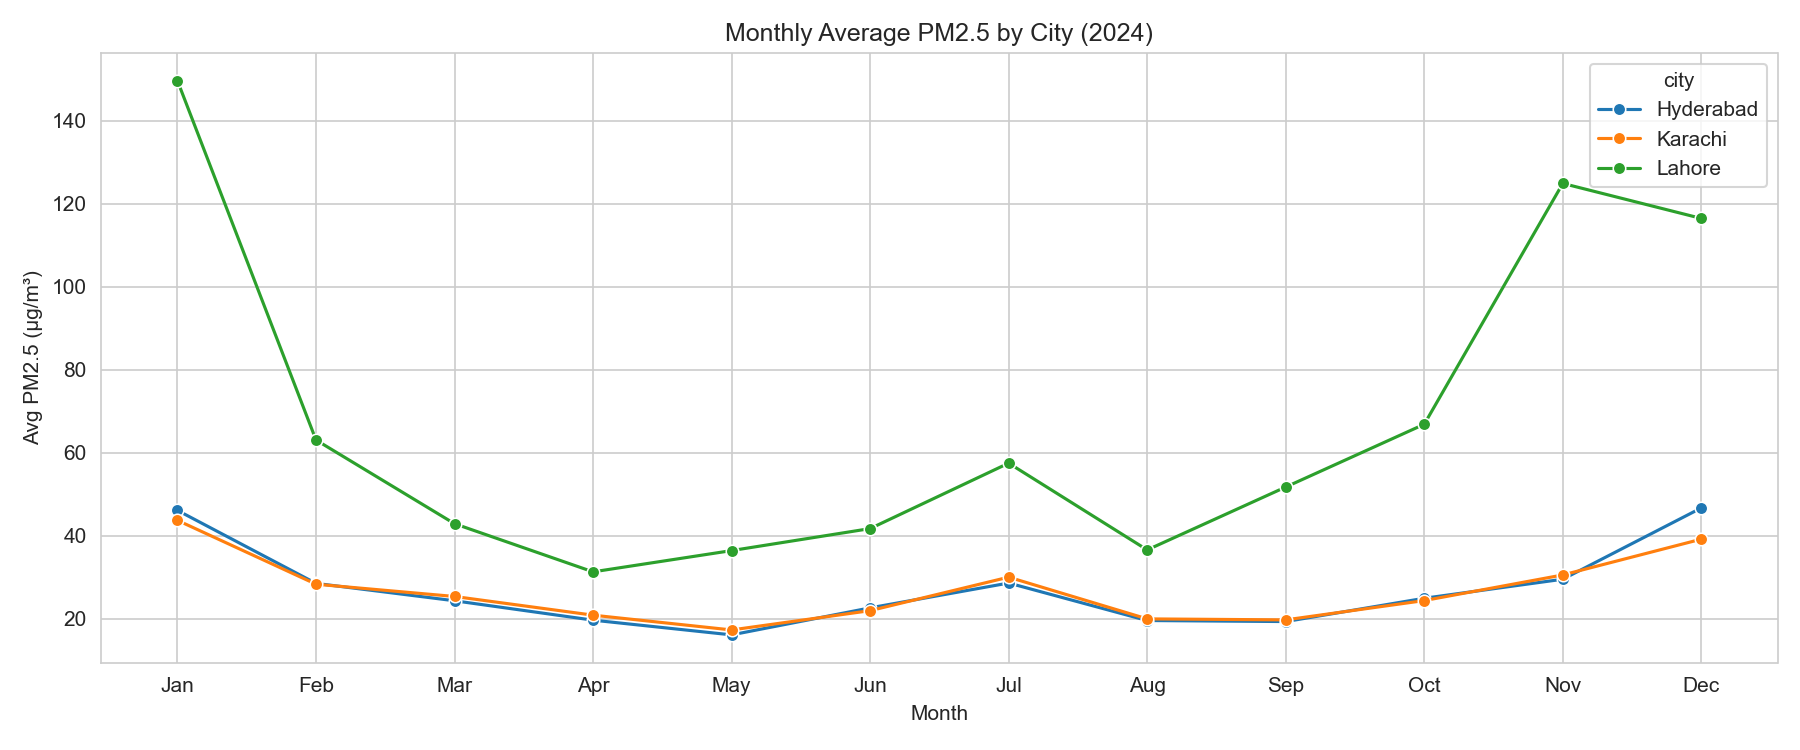
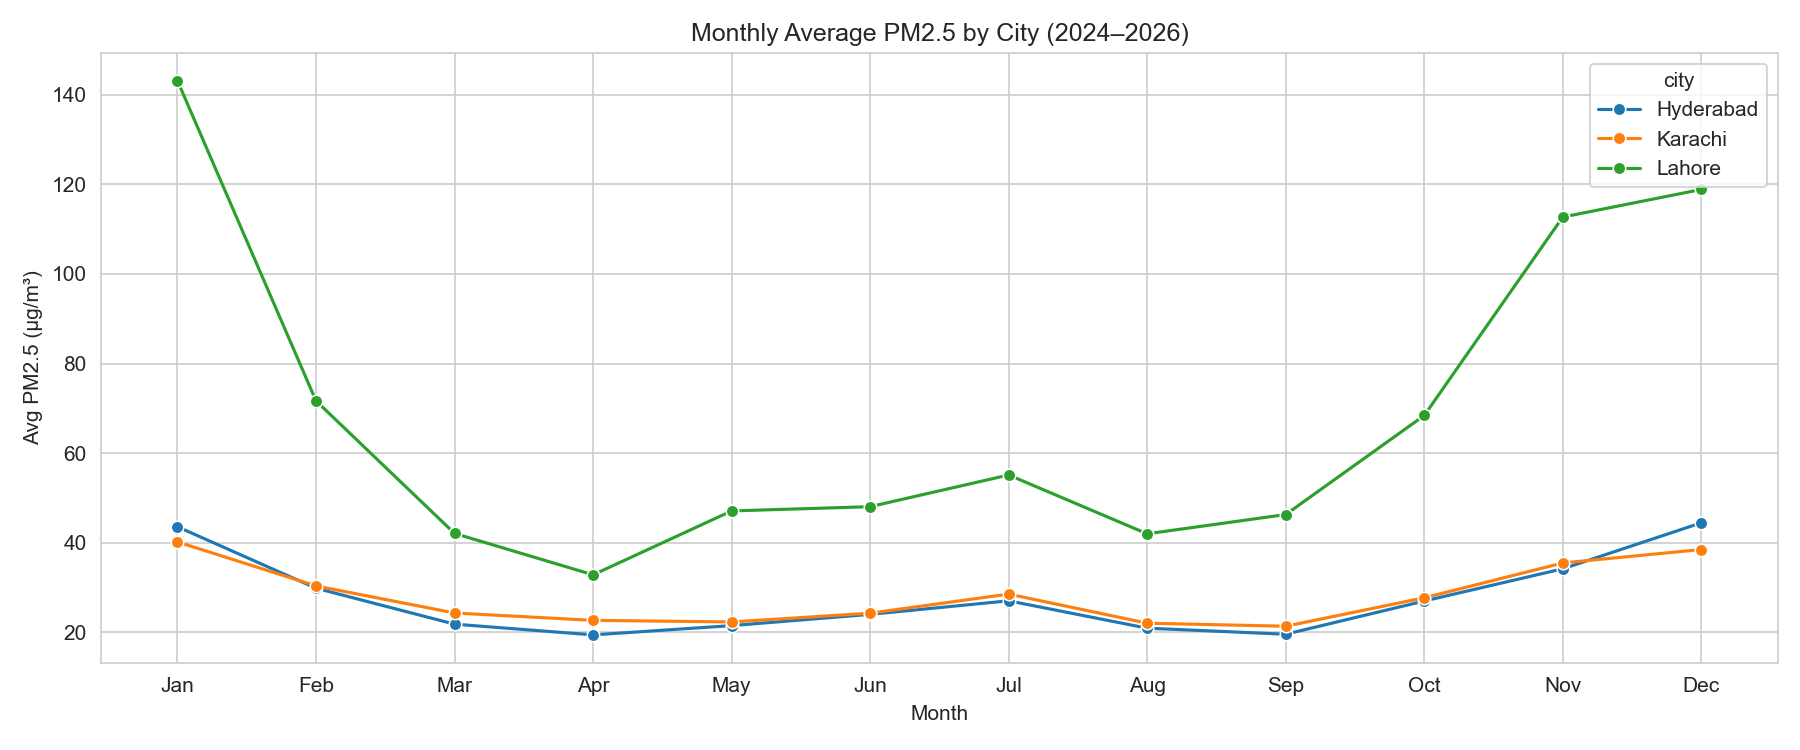
Updated to fetch recent data (2024-current)

diff --git a/projects/01-ml-end-to-end/src/01_eda.py b/projects/01-ml-end-to-end/src/01_eda.py
@@ -12,7 +12,7 @@ CITIES = {
 RAW_DATA_PATH = "data/raw/aqi_pakistan.csv"
 BASE_URL = "https://air-quality-api.open-meteo.com/v1/air-quality"
 START_DATE = "2024-01-01"
-END_DATE   = "2024-12-31"
+END_DATE   = "2026-05-31"
 
 def fetch_aqi_data(city: str, lat: float, lon: float) -> pd.DataFrame:
     """Fetch hourly PM2.5 for Pakistani cities using Open-Meteo"""
@@ -56,14 +56,19 @@ def main():
 def run_eda(df: pd.DataFrame):
     """Generate exploratory plots for the combined AQI dataframe."""
     os.makedirs("assets/demo-screenshots", exist_ok=True)
+
+    start_year = df["datetime"].dt.year.min()
+    end_year = df["datetime"].dt.year.max()
+    date_range = f"{start_year}–{end_year}" if start_year != end_year else str(start_year)
+
     sns.set_style("whitegrid")
 
     # Plot 1, PM2.5 over time per city
     fig, axes = plt.subplots(3, 1, figsize=(14, 10), sharex=True)
     for ax, city in zip(axes, CITIES.keys()):
         city_df = df[df["city"] == city]
-        ax.plot(city_df["datetime"], city_df["pm25"]) #, linewidth=0.6
-        ax.set_title(f"{city}: Hourly PM2.5") #(2024)
+        ax.plot(city_df["datetime"], city_df["pm25"])
+        ax.set_title(f"{city} — Hourly PM2.5 ({date_range})")
         ax.set_ylabel("PM2.5 (µg/m³)")
     axes[-1].set_xlabel("Date")
     plt.tight_layout()
@@ -76,7 +81,7 @@ def run_eda(df: pd.DataFrame):
     monthly = df.groupby(["city", "month"])["pm25"].mean().reset_index()
     plt.figure(figsize=(12, 5))
     sns.lineplot(data=monthly, x="month", y="pm25", hue="city", marker="o")
-    plt.title("Monthly Average PM2.5 by City (2024)")
+    plt.title(f"Monthly Average PM2.5 by City ({date_range})")
     plt.xlabel("Month")
     plt.ylabel("Avg PM2.5 (µg/m³)")
     plt.xticks(range(1, 13), ["Jan", "Feb", "Mar", "Apr", "May", "Jun",
@@ -89,7 +94,7 @@ def run_eda(df: pd.DataFrame):
     # Plot 3, pm2.5 distribution per city
     plt.figure(figsize=(10, 5))
     sns.boxplot(data=df, x="city", y="pm25")
-    plt.title("PM2.5 Distribution by City (2024)")
+    plt.title(f"PM2.5 Distribution by City ({date_range})")
     plt.ylabel("PM2.5 (µg/m³)")
     plt.tight_layout()
     plt.savefig("assets/demo-screenshots/03_boxplot.png", dpi=150)
@@ -101,7 +106,7 @@ def run_eda(df: pd.DataFrame):
     hourly = df.groupby(["city", "hour"])["pm25"].mean().reset_index()
     plt.figure(figsize=(12, 5))
     sns.lineplot(data=hourly, x="hour", y="pm25", hue="city", marker="o")
-    plt.title("Average PM2.5 by Hour of Day (2024)")
+    plt.title(f"Average PM2.5 by Hour of Day ({date_range})")
     plt.xlabel("Hour of Day")
     plt.ylabel("Avg PM2.5 (µg/m³)")
     plt.xticks(range(0, 24))
